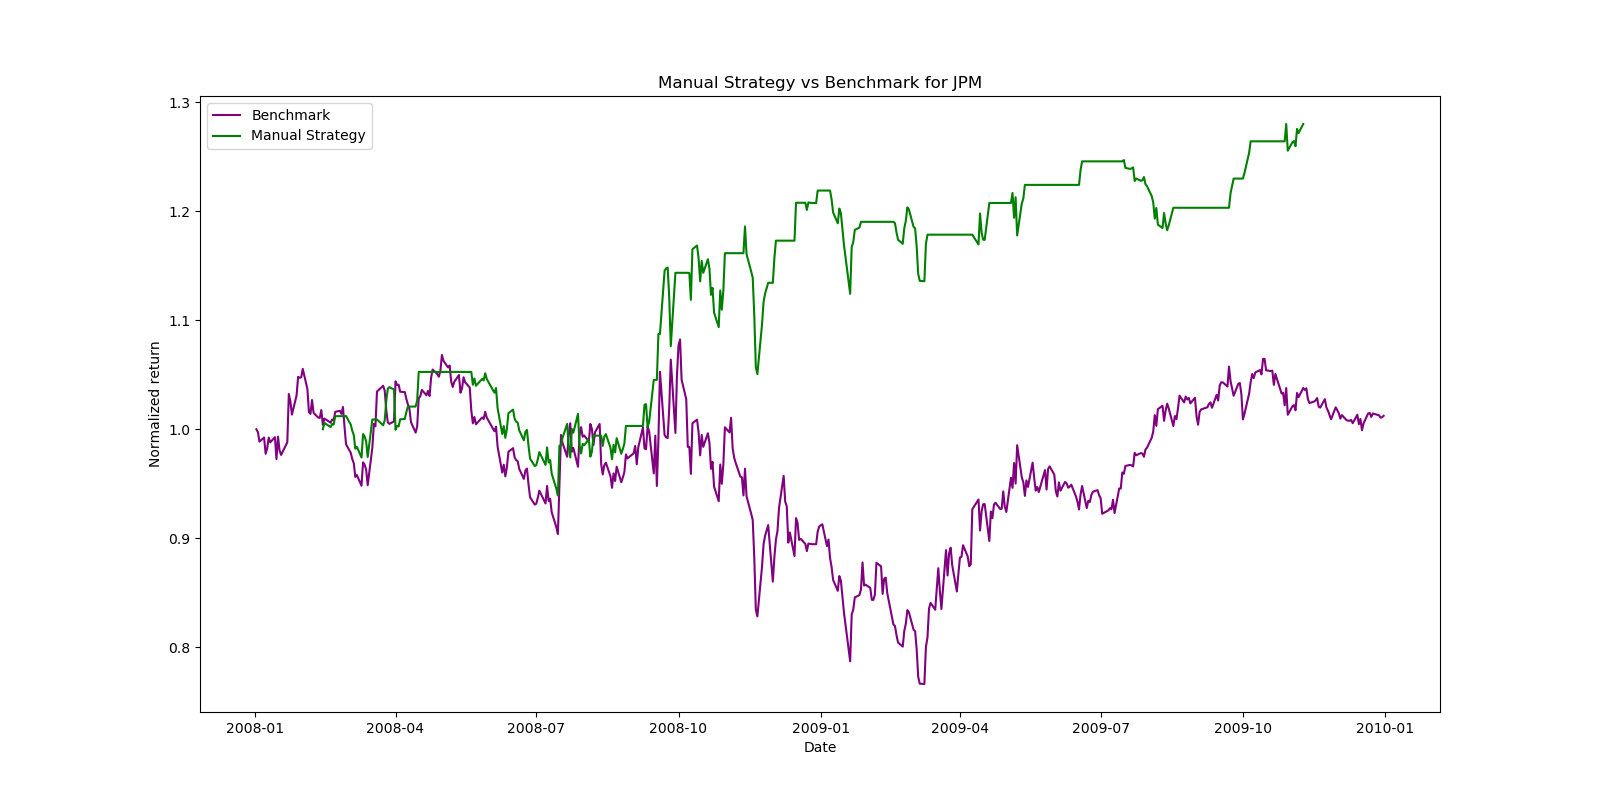
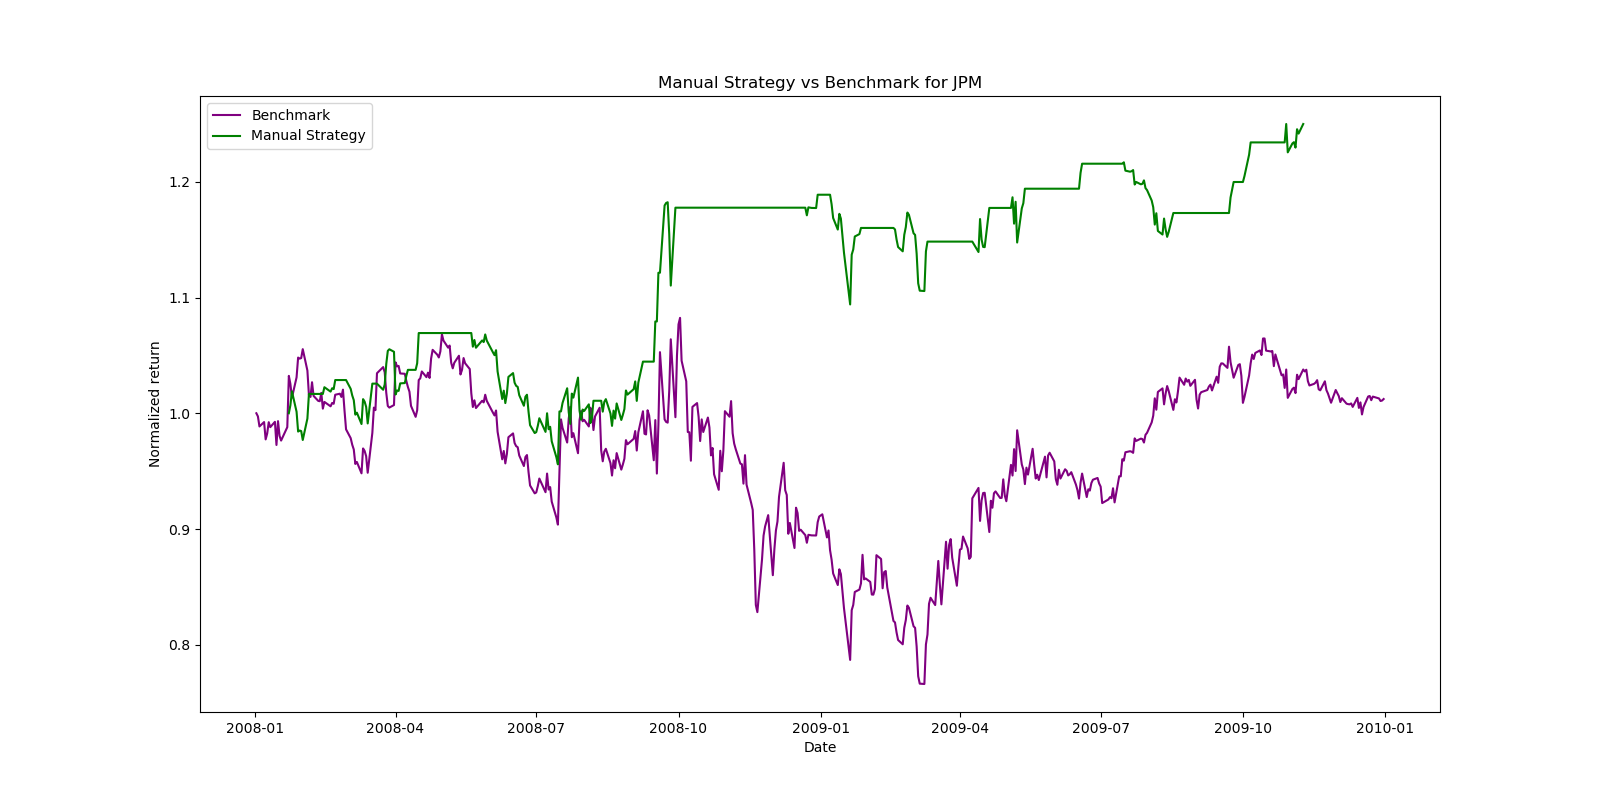
add vix

diff --git a/strategy_evaluation/ManualStrategy.py b/strategy_evaluation/ManualStrategy.py
@@ -2,7 +2,7 @@ import datetime as dt
 
 import pandas as pd
 from util import get_data
-from  indicators import BB, MACD
+from  indicators import BB, MACD, momentum
 import matplotlib.pyplot as plt
 
 class ManualStrategy():
@@ -26,7 +26,7 @@ class ManualStrategy():
         holdings = {symbol: 0}
         lookback = 14
 
-        price_df = price_df[["JPM"]]
+        price_df = price_df[[symbol]]
 
         #build orders df
         orders= pd.DataFrame()
@@ -46,41 +46,37 @@ class ManualStrategy():
         #only use bb(percentage)
         upper_band, lower_band, bb = BB(lookback, normed_price_df)
 
-        #MACD
-        macd_line, signal_line = MACD(normed_price_df)
-        print(macd_line)
-        print(signal_line)
+        #get vix
+        vix = get_data(['$VIX'], date_range, addSPY=True, colname='Adj Close')
+        vix.fillna(method='ffill', inplace=True)
+        vix.fillna(method='bfill', inplace=True)
+        vix.drop(['SPY'], axis=1, inplace=True)
+        # print(vix)
+        # print("we're good here")
 
-        ema_50 = normed_price_df.ewm(span=50, min_periods=0, adjust=False).mean()
-        ema_200 = normed_price_df.ewm(span=200, min_periods=0, adjust=False).mean()
+        for day in range(lookback, price_df.shape[0]):
 
-
-        for day in range(lookback+1, price_df.shape[0]):
-
-            if (sma_ratio.ix[day, symbol] < 0.95) and (bb.ix[day, symbol] < 0) :
+            if (sma_ratio.ix[day, symbol] < 0.95) and (bb.ix[day, symbol] < 0) and vix.ix[day, '$VIX'] < 50 :
                 if holdings[symbol] < 1000:
-                    holdings[symbol]=holdings[symbol]+1000
-                    new_row={'Date':price_df.index[day], 'Symbol': symbol, 'Order': 'BUY', 'Shares': 1000}
-                    orders=orders.append(new_row, ignore_index=True)
+                    holdings[symbol] = holdings[symbol] + 1000
+                    new_row = {'Date': price_df.index[day], 'Symbol': symbol, 'Order': 'BUY', 'Shares': 1000}
+                    orders = orders.append(new_row, ignore_index=True)
 
-
-            elif (sma_ratio.ix[day, symbol]  > 1.05) and (bb.ix[day, symbol] > 1) :
+            elif (sma_ratio.ix[day, symbol] > 1.05) and (bb.ix[day, symbol] > 1.0) and vix.ix[day, '$VIX'] > 20:
                 if holdings[symbol] > -1000:
                     holdings[symbol] = holdings[symbol] - 1000
                     new_row = {'Date': price_df.index[day], 'Symbol': symbol, 'Order': 'SELL', 'Shares': 1000}
-                    orders=orders.append(new_row, ignore_index=True)
+                    orders = orders.append(new_row, ignore_index=True)
 
-
-            elif (sma_ratio.ix[day, symbol] >= 1) and (sma_ratio.ix[day-1, symbol] < 1) and (holdings[symbol] > 0) :
+            elif (sma_ratio.ix[day, symbol] >= 1) and (sma_ratio.ix[day-1, symbol] < 1) and (holdings[symbol] > 0) and vix.ix[day, '$VIX'] > 20:
                 holdings[symbol] = 0
                 new_row = {'Date': price_df.index[day], 'Symbol': symbol, 'Order': 'SELL', 'Shares': 1000}
-                orders=orders.append(new_row, ignore_index=True)
+                orders = orders.append(new_row, ignore_index=True)
 
-
-            elif (sma_ratio.ix[day,symbol] <= 1) and (sma_ratio.ix[day-1, symbol] > 1) and (holdings[symbol] < 0) :
+            elif (sma_ratio.ix[day, symbol] <= 1) and (sma_ratio.ix[day-1, symbol] > 1) and (holdings[symbol] < 0) and vix.ix[day, '$VIX'] < 50:
                 holdings[symbol] = 0
                 new_row = {'Date': price_df.index[day], 'Symbol': symbol, 'Order': 'BUY', 'Shares': 1000}
-                orders=orders.append(new_row, ignore_index=True)
+                orders = orders.append(new_row, ignore_index=True)
 
         orders=orders.set_index(orders.columns[0])
         return orders
@@ -95,7 +91,7 @@ class ManualStrategy():
         orders['Order'] = 0
         orders['Shares'] = 0
 
-        orders['Symbol'] = 'JPM'
+        orders['Symbol'] = symbol
         orders['Order'] = 'BUY'
         orders.iloc[0, 2] = 1000
 

diff --git a/strategy_evaluation/testproject.py b/strategy_evaluation/testproject.py
@@ -12,24 +12,17 @@ if __name__=="__main__":
     sd = dt.datetime(2008, 1, 1)
     ed = dt.datetime(2009, 12, 31)
     sv = 100000
-    # symbol=["JPM"]
-    # #Get stock data
-    # df = get_data(symbol, pd.date_range(sd, ed))
-    #
-    # df=df[['JPM']]
+
+    symbol_to_test="JPM"
     # generate benchmark orders
     mst = mst.ManualStrategy()
-    benchmark_order = mst.benchmark_orders()
-    print(benchmark_order)
+    benchmark_order = mst.benchmark_orders(symbol_to_test)
 
     bench_vals = compute_portvals(benchmark_order, sv, 0.0, 0.0)
     normed_benchmark_vals = bench_vals / bench_vals[0]
 
-
     #generage manual strategy
-    manual_orders = mst.testPolicy("JPM", sd, ed, sv)
-    print(manual_orders)
-
+    manual_orders = mst.testPolicy(symbol_to_test, sd, ed, sv)
 
     manual_vals=compute_portvals(manual_orders, sv, 0.0, 0.0)
     normed_manual_vals = manual_vals/manual_vals[0]
@@ -39,7 +32,6 @@ if __name__=="__main__":
     plt.title("Manual Strategy vs Benchmark for JPM")
     plt.xlabel("Date")
     plt.ylabel("Normalized return")
-
 
     plt.plot(normed_benchmark_vals.index, normed_benchmark_vals, label="Benchmark", color='Purple')
     plt.plot(normed_manual_vals.index, normed_manual_vals, label="Manual Strategy", color='Green')
